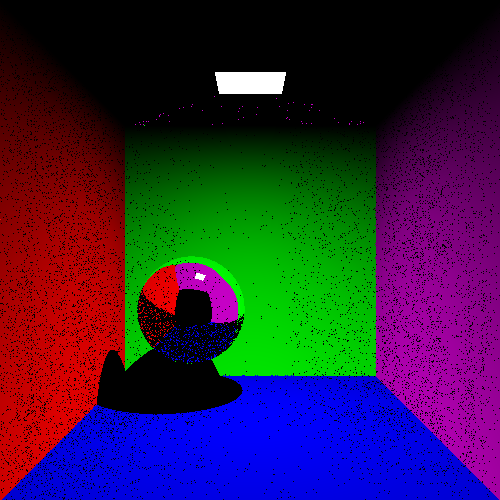
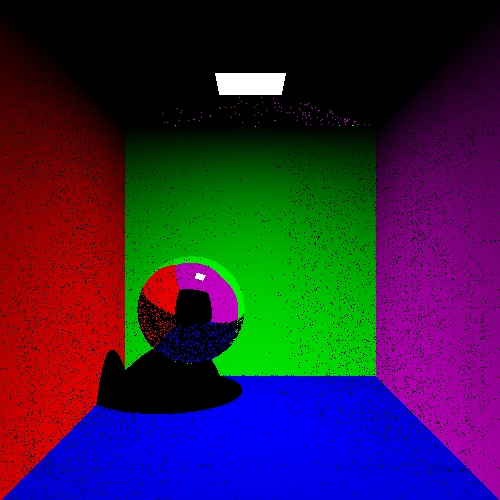
jojo

diff --git a/main.go b/main.go
@@ -441,13 +441,13 @@ func main() {
 	lamp1 := object.Object {
 		[]object.Triangle {
 			object.Triangle {
-				vec3.Vec3{float64(width/2) - float64(spotlight1_radius/2), 0.0000001, float64(depth/2) - float64(spotlight1_radius/2)}, 
-				vec3.Vec3{float64(width/2) + float64(spotlight1_radius/2), 0.0000001, float64(width/2) - float64(spotlight1_radius/2)}, 
-				vec3.Vec3{float64(width/2) - float64(spotlight1_radius/2), 0.0000001, float64(depth/2) + float64(spotlight1_radius/2)}, diffuse_pdf, white_light},
+				vec3.Vec3{float64(width/2) - float64(spotlight1_radius/2), 1.0, float64(depth/2) - float64(spotlight1_radius/2)}, 
+				vec3.Vec3{float64(width/2) + float64(spotlight1_radius/2), 1.0, float64(width/2) - float64(spotlight1_radius/2)}, 
+				vec3.Vec3{float64(width/2) - float64(spotlight1_radius/2), 1.0, float64(depth/2) + float64(spotlight1_radius/2)}, diffuse_pdf, white_light},
 			object.Triangle {
-				vec3.Vec3{float64(width/2) - float64(spotlight1_radius/2), 0.0000001, float64(depth/2) + float64(spotlight1_radius/2),}, 
-				vec3.Vec3{float64(width/2) + float64(spotlight1_radius/2), 0.0000001, float64(depth/2) - float64(spotlight1_radius/2),}, 
-				vec3.Vec3{float64(width/2) + float64(spotlight1_radius/2), 0.0000001, float64(depth/2) + float64(spotlight1_radius/2)}, diffuse_pdf, white_light},
+				vec3.Vec3{float64(width/2) - float64(spotlight1_radius/2), 1.0, float64(depth/2) + float64(spotlight1_radius/2),}, 
+				vec3.Vec3{float64(width/2) + float64(spotlight1_radius/2), 1.0, float64(depth/2) - float64(spotlight1_radius/2),}, 
+				vec3.Vec3{float64(width/2) + float64(spotlight1_radius/2), 1.0, float64(depth/2) + float64(spotlight1_radius/2)}, diffuse_pdf, white_light},
 		},
 	}
 
@@ -530,6 +530,7 @@ func main() {
 			zdir *= -1
 		}
 		spheres[0].Move(xdir, ydir, zdir)
+		objects[1].Move(xdir, ydir, zdir)
 	}
 
 }
@@ -600,7 +601,7 @@ func render_frame_thread(start_x int, end_x int, start_y int, end_y int, camera 
 					frame_buffer[x][y] = zero_vector
 				} else {
 					// hit a light source
-					frame_buffer[x][y].Scale(math.Abs(n.Dot(shadow_ray_dir)))
+					frame_buffer[x][y].Scale(max(0, n.Dot(shadow_ray_dir)))
 				}
 			}
 		}

diff --git a/object/object.go b/object/object.go
@@ -20,10 +20,14 @@ type Sphere struct {
 	Radius float64
 	Pdf func(vec3.Vec3, vec3.Vec3) vec3.Vec3 
 	Mterial Material
+	// TODO Force vec3.Vec3
+	// TODO Mass float64
 }
 
 type Object struct {
 	Mesh []Triangle
+	// TODO Force vec3.Vec3
+	// TODO Mass float64
 }
 
 type Material struct {
